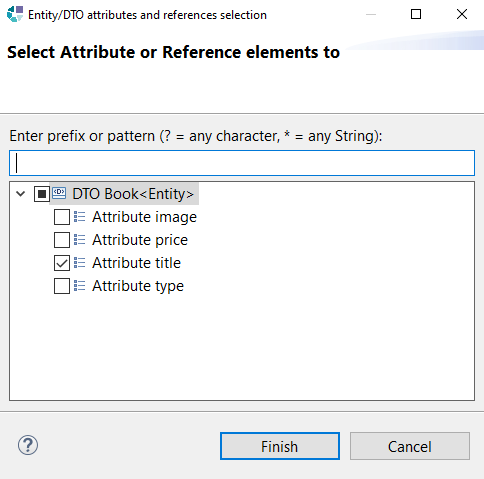
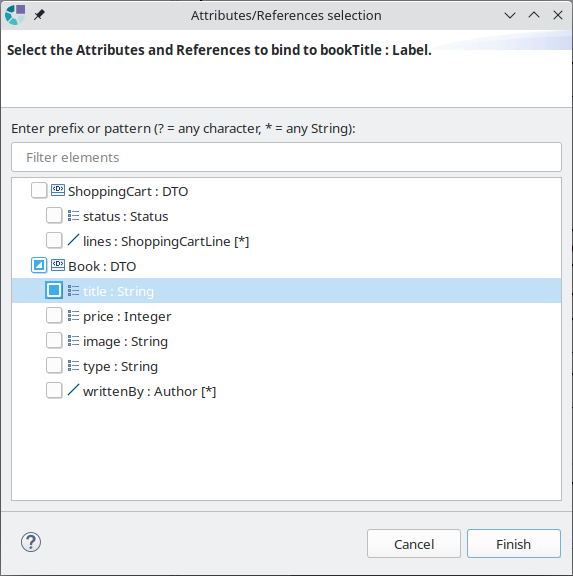
[SAFRAN-1174] Cinematic - Databinding dialogs on the Mockup diagram - Documentation

Changed region(s): [[0.0, 0.0, 1.0, 1.0], [0.031, 0.9061, 0.093, 0.9645]]

diff --git a/models/cinematic/plugins/org.obeonetwork.dsl.cinematic.doc/doc/ISD - Cinematic tooling.html b/models/cinematic/plugins/org.obeonetwork.dsl.cinematic.doc/doc/ISD - Cinematic tooling.html
@@ -394,20 +394,45 @@
 			<em>Layout Diagram</em> permet de visualiser cette structure de Layout (décrit dans le chapitre suivant). 
 		</p>
 		<h4 id="Editiondebindings">Edition de bindings</h4>
-		<p>Afin d'éditer le binding d&#8217;un 
-			<em>ViewContainer</em> ou d&#8217;un 
-			<em>ViewElement</em>, un menu &#171;Binding...&#187; s&#8217;affiche lors du clic droit sur ces éléments.
-			<br/>Cet action menu ouvre une fenêtre permettant d'éditer la sélection
-			<br/>i) dans le cas d&#8217;un ViewContainer: des types structurés liés:
+		<p>Afin de faire le lien avec les couches SOA et Entity, les 
+			<em>ViewContainer</em> peuvent être bindés à des DTO ou des Entités, et les 
+			<em>ViewElements</em> peuvent être bindés à des attributs ou des références de DTO ou Entités.
 		</p>
-		<p>
+		<p>La fonctionnalité de binding est accessible en menu contextuel de la vue Mockup, sous l&#8217;entrée de menu &#171;Binding...&#187;.</p>
+		<p>Cette action de menu ouvre un dialogue de sélection permettant de binder des DTO/Entités à un 
+			<em>ViewContainer</em>, ou des attributs/références à un 
+			<em>ViewElement</em>.
+		</p>
+		<p>Pour un _ViewContainer, le dialogue présente les DTO/Entités accessibles :
+			<br/>
 			<img style="width:40%" border="0" src="pics/MockupDiagram/ViewContainerBinding.png"/>
 		</p>
-		<p>ii) dans le cas d&#8217;un ViewElement: des attributs ou références de types structurés liés. Ces types structurés doivent être préalablement liés à un ViewContainer parent du ViewElement.</p>
+		<p>Plusieurs DTO/Entités peuvent être selectionnés. Chaque selection/désélection de DTO/Entité donne lieu à la création/suppression d&#8217;un objet de binding 
+			<em>BindingInfo</em>.
+		</p>
+		<p>Si un binding supprimé entraine la suppression de binding de références contenus, un dialogue de confirmation est affiché.</p>
+		<p>Si des 
+			<em>ViewContainer</em> parent sont déjà bindés à des DTO/Entités, ces DTO/Entités sont sélectionnés et leur désélection est inactivée. La modification de ce binding est faisable dans le dialogue de binding du 
+			<em>ViewContainer</em> parent en question.
+		</p>
+		<p>Pour un 
+			<em>ViewElement</em>, le dialogue présente les DTOs/Entités bindées sur les 
+			<em>ViewContainer</em> parent du 
+			<em>ViewElement</em> sélectionné :
+		</p>
 		<p>
 			<img style="width:40%" border="0" src="pics/MockupDiagram/ViewElementBinding.png"/>
 		</p>
-		<p>Note: Lorsque des bindings sont définis sur un ViewElement ou un ViewContainer, le glisser-déposer de celui-ci sur un ViewContainer cible ne sera possible que si ses bindings restent valides avec la nouvelle cible. Ses bindings restent valides si leurs contextes liés aux BindingInfos associés aux ViewContainers parent (à l'élément à déplacer) sont conservés.</p>
+		<p>Les DTO/Entités peuvent être dépliés pour accéder à des propriétés de DTO/Entités référencés. Plusieurs attributs/références peuvent être sélectionnés. Chaque sélection/déselection donne lieu à la création/suppression d&#8217;un objet de binding 
+			<em>BindingReference</em> contenu dans le 
+			<em>BindingInfo</em> du 
+			<em>ViewContainer</em> correspondant.
+		</p>
+		<p>Lorsque des bindings sont définis sur un 
+			<em>ViewElement</em> ou un 
+			<em>ViewContainer</em>, le glisser-déposer dans le diagramme de Mockup n&#8217;est possible que si les bindings restent valides avec le 
+			<em>ViewContainer</em> destination.
+		</p>
 		<h4 id="Navigationversdautresdiagrammes2">Navigation vers d&#8217;autres diagrammes</h4>
 		<p>Le double clic sur les éléments du diagramme de mockup permet de naviguer vers d&#8217;autres diagrammes en les créant à la volée si ils n&#8217;existent pas :</p>
 		<ul>
@@ -680,11 +705,11 @@
 			<em>View State</em> à son apparence initiale.
 		</p>
 		<p>
-			<b>Dialogue de séléction d'événements déclencheurs:</b>
+			<b>Dialogue de sélection d'événements déclencheurs:</b>
 			<br/>
 			<img style="width:50%" border="0" src="pics/FlowDiagram/EventSelectionDialog.png"/>
 		</p>
-		<p>Ce dialogue permet de séléctionner des types d'événements. Il présente l’ensemble des types d’événements supportés par les widgets utilisés dans le modèle Cinematic, ainsi que l’ensemble des événements logiques définis dans le Flow.
+		<p>Ce dialogue permet de sélectionner des types d'événements. Il présente l’ensemble des types d’événements supportés par les widgets utilisés dans le modèle Cinematic, ainsi que l’ensemble des événements logiques définis dans le Flow.
 			<br/>Les événements des widgets sont classés sous la hiérarchie des View Elements, les événements logiques sont regroupés sous un nœud virtuel « Flow events ».
 		</p>
 		<p>Les événements déclencheurs de la transition sont cochés.</p>
@@ -708,15 +733,15 @@
 			</li>
 		</ul>
 		<p>
-			<b>Dialogue de séléction de ViewContainer:</b>
+			<b>Dialogue de sélection de ViewContainer:</b>
 			<br/>
 			<img style="width:50%" border="0" src="pics/FlowDiagram/ViewContainerSelectionDialog.png"/>
 		</p>
-		<p>Ce dialogue permet de séléctionner des View Containers. Il présente l’ensemble des View Containers du modèle Cinematic présentés sous leur hierarchie de contenance.</p>
+		<p>Ce dialogue permet de selectionner des View Containers. Il présente l’ensemble des View Containers du modèle Cinematic présentés sous leur hierarchie de contenance.</p>
 		<p>Les View Containers associés au View State concerné sont cochés.</p>
 		<p>La zone de filtre textuel permet de réduire le contenu de l’arbre de manière à n’afficher que les éléments dont le label se conforme au filtre. L’affichage d’un élément dont le label se conforme au filtre entraîne cependant l’affichage des éléments parents jusqu’à la racine de l’arbre ainsi que tous ses éléments fils. Le métacaractère ‘*’ est supporté pour correspondre à une chaîne de caractères quelconque et &#8249;?&#8250; pour correspondre à un caractère quelconque.</p>
 		<p>La case à cocher « Hide View Containers bound to other View States » permet de cacher les View Containers déjà liés à des View States. Elle est cochée à l’affichage du dialogue. Des containers déjà associés peuvent cependant être affichés malgré le filtre.</p>
-		<p>L'état partiellement coché d&#8217;une case indique que des sous éléments sont séléctionnés. Les éléments partiellement cochés ne font pas partie de la séléction prise en compte à la validation du dialogue.</p>
+		<p>L'état partiellement coché d&#8217;une case indique que des sous éléments sont selectionnés. Les éléments partiellement cochés ne font pas partie de la selection prise en compte à la validation du dialogue.</p>
 		<p>A la validation du dialogue, la liste des éléments associés au View State est mise à jour avec la sélection faite par l’utilisateur.</p>
 		<h3 id="Crationdetoolkits">Création de toolkits</h3>
 		<p>Un des objectifs du méta-modèle Cinematic est de permettre de créer facilement de nouveaux toolkits.</p>

diff --git a/designs/cinematic/plugins/org.obeonetwork.dsl.cinematic.design/src/org/obeonetwork/dsl/cinematic/design/services/CinematicBindingServices.java b/designs/cinematic/plugins/org.obeonetwork.dsl.cinematic.design/src/org/obeonetwork/dsl/cinematic/design/services/CinematicBindingServices.java
@@ -97,12 +97,12 @@ public class CinematicBindingServices {
 		.filter(StructuredType.class::isInstance).map(StructuredType.class::cast)//
 		.toList();
 		
-		String windowTitle = "Entity/DTO selection";
+		String windowTitle = "DTO/Entity selection";
 		
-		String message = "Select Entity or DTO elements to bind.";
+		String message = String.format("Select DTOs or Entities to bind to the %s View Container.", contextViewContainer.getName());
 		if(!alwaysSelectedElements.isEmpty()) {
 			message += "\n"
-					+ "Elements already bound to parent view containers cannot be unselected here.";
+					+ "DTOs/Entities already bound to parent View Containers cannot be unselected here.";
 		}
 
         final ISObjectSelectionWizard wizard = new ISObjectSelectionWizard(
@@ -271,9 +271,9 @@ public class CinematicBindingServices {
 			.filter(StructuredType.class::isInstance).map(StructuredType.class::cast)//
 			.forEach(root -> new ISObjectTreeItemWrapper(treeRoot, root));
 		
-		String windowTitle = "Entity/DTO attributes and references selection";
+		String windowTitle = "Attributes/References selection";
 		
-		String message = "Select Attribute or Reference elements to bind.";
+		String message = String.format("Select the Attributes and References to bind to %s.", CinematicLabelServices.getCinematicLongLabel(contextViewElement));
 		
         final ISObjectSelectionWizard wizard = new ISObjectSelectionWizard(
         		windowTitle, 

diff --git a/designs/cinematic/plugins/org.obeonetwork.dsl.cinematic.design/src/org/obeonetwork/dsl/cinematic/design/services/CinematicLabelServices.java b/designs/cinematic/plugins/org.obeonetwork.dsl.cinematic.design/src/org/obeonetwork/dsl/cinematic/design/services/CinematicLabelServices.java
@@ -39,7 +39,7 @@ public class CinematicLabelServices {
 	private static FlowEditLabelSwitch flowEditSwitch = new FlowEditLabelSwitch();
 	private static ViewEditLabelSwitch viewEditSwitch = new ViewEditLabelSwitch();
 
-	public String getCinematicLabel(EObject eObject) {
+	public static String getCinematicLabel(EObject eObject) {
 		String packagePrefix = eObject.eClass().getEPackage().getNsPrefix();
 		if ("cinematic".equals(packagePrefix)) {
 			return cinematicLabelSwitch.doSwitch(eObject);
@@ -80,7 +80,7 @@ public class CinematicLabelServices {
 		return builder.toString();
 	}
 	
-	public String getCinematicLongLabel(EObject eObject) {
+	public static String getCinematicLongLabel(EObject eObject) {
 		String packagePrefix = eObject.eClass().getEPackage().getNsPrefix();
 		if ("cinematic".equals(packagePrefix)) {
 			return cinematicLabelSwitch.doSwitch(eObject);
